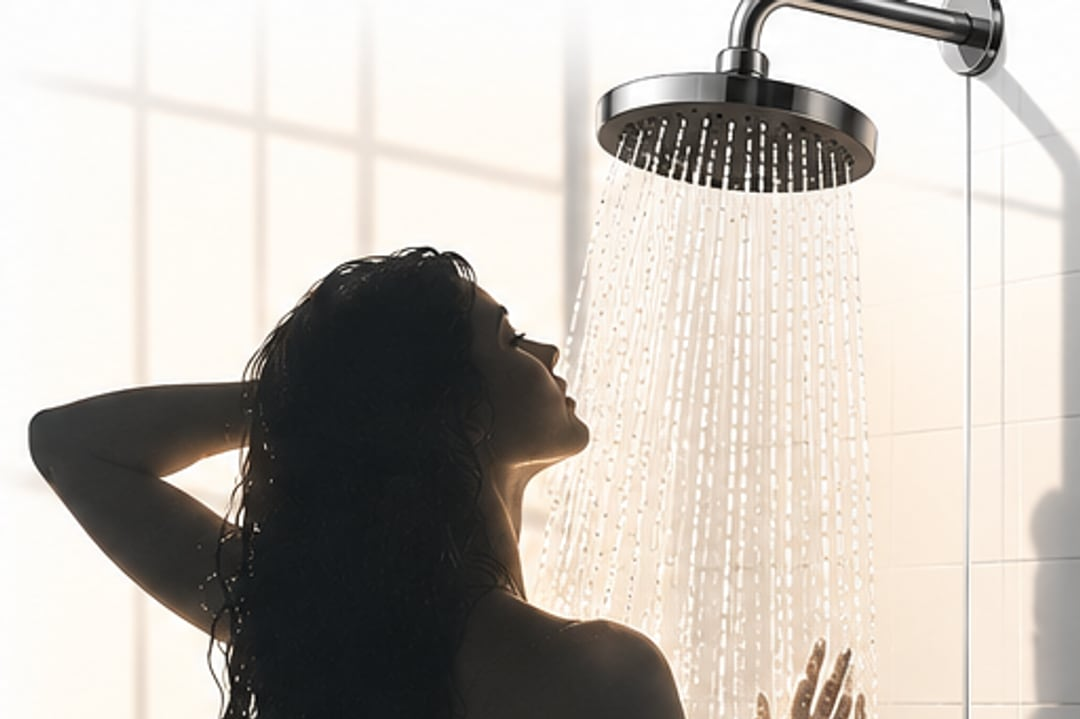
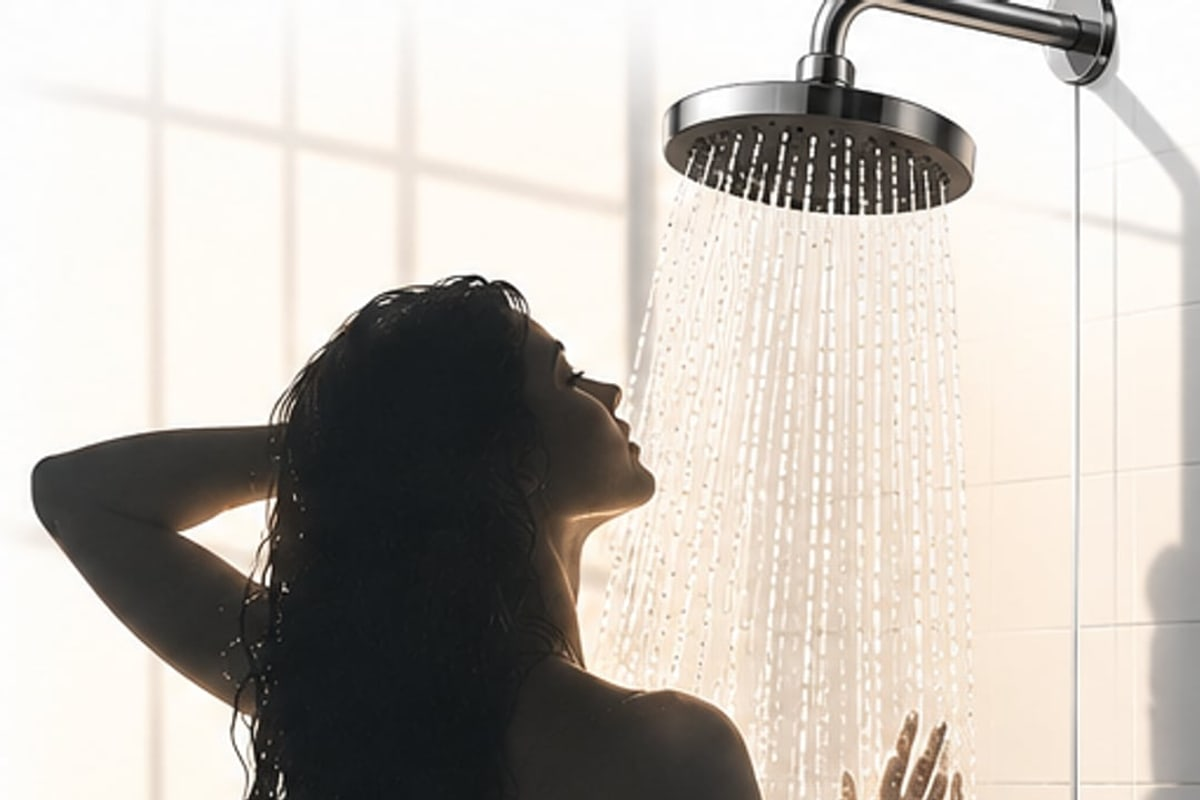
GeyserReplacement V6

diff --git a/design-export/website/GeyserReplacementsPage.jsx b/design-export/website/GeyserReplacementsPage.jsx
@@ -38,108 +38,6 @@ const { Button, Icon } = window.HomeAssistDesignSystem_cf0a2b;
 
 const GR_STORAGE_KEY = 'ha-geyser-config-v1';
 
-/* The three hero slides.
-
-   These were originally one wide graphic with its headings, size chips and kPa
-   values set as pixels inside the image — which meant none of it reflowed, none
-   of it was readable on a phone and none of it was indexable. Each slide is now
-   cropped to the subject alone, at a consistent 3:2, and every word that used
-   to be baked into the artwork is real HTML underneath it.
-
-   Slide two is composed rather than cropped: the control valve render on the
-   brand's grey, because cropping the original panel to 3:2 clipped the pressure
-   list in half. */
-const GR_SLIDES = [
-  {
-    image: '/assets/illustrations/geyser-hero-1-size.jpg',
-    label: 'Capacity',
-    title: 'The right size, for the number of people who shower',
-    body: 'Roughly 35 to 50 litres of hot water per person, and around 70% of South African homes run a 150 litre cylinder. Step 3 asks how many people shower, which is the same question the useful way round.',
-    alt: 'An electric hot water cylinder on mounting feet, showing the element cover plate, thermostat access and the energy rating label.'
-  },
-  {
-    image: '/assets/illustrations/geyser-hero-2-pressure.jpg',
-    label: 'Pressure',
-    title: 'A control valve matched to the cylinder, not to the van',
-    body: '100 to 200 kPa gives weak flow and cold showers. 400 to 600 kPa is the working range. Above 600 kPa shortens the life of the tank. This one part decides how the whole installation behaves.',
-    alt: 'A brass geyser control valve assembly with an isolating lever, a pressure control cartridge and compression fittings.'
-  },
-  {
-    image: '/assets/illustrations/geyser-hero-3-shower.jpg',
-    label: 'The result',
-    title: 'Strong, consistent flow — and a certificate to prove it',
-    body: 'A cylinder sized to the household, a valve matched to the cylinder, and a certificate of compliance saying so. Which is also the document your insurer asks for.',
-    alt: 'A rain shower head running at strong, even pressure in a sunlit bathroom.'
-  }
-];
-
-/* Rotating carousel. Auto-advances, and stops on hover, on keyboard focus and
-   for anyone who has asked their system to reduce motion — an image that keeps
-   moving under a reader is worse than one that never moved. Index starts at 0
-   on the server and on first paint, so the prerendered HTML and the hydrated
-   page agree. */
-function GrCarousel() {
-  const [i, setI] = React.useState(0);
-  const [paused, setPaused] = React.useState(false);
-  const count = GR_SLIDES.length;
-
-  React.useEffect(function () {
-    if (paused) return;
-    if (typeof window !== 'undefined' && window.matchMedia && window.matchMedia('(prefers-reduced-motion: reduce)').matches) return;
-    const t = setTimeout(function () { setI(function (v) { return (v + 1) % count; }); }, 5200);
-    return function () { clearTimeout(t); };
-  }, [i, paused, count]);
-
-  const go = function (next) { setI(((next % count) + count) % count); };
-  const slide = GR_SLIDES[i];
-
-  const arrow = {
-    cursor: 'pointer', background: '#fff', border: '1px solid var(--web-grey-300)', borderRadius: 4,
-    width: 42, height: 42, minHeight: 'var(--web-tap-min)', flex: '0 0 auto',
-    display: 'flex', alignItems: 'center', justifyContent: 'center'
-  };
-
-  return <div role="group" aria-roledescription="carousel" aria-label="Geyser sizing, pressure and the result"
-    onFocus={function () { setPaused(true); }} onBlur={function () { setPaused(false); }}
-    style={{ background: '#fff', border: '1px solid rgba(255,255,255,.22)', borderRadius: 4, overflow: 'hidden' }}>
-
-    {/* 3 / 2 on every slide, so the card never changes height as it rotates. */}
-    <div style={{ position: 'relative', width: '100%', aspectRatio: '3 / 2', background: 'var(--web-grey-050)' }}>
-      <img src={slide.image} alt={slide.alt}
-        style={{ position: 'absolute', inset: 0, width: '100%', height: '100%', objectFit: 'cover', display: 'block' }} />
-      <div style={{ position: 'absolute', left: 12, top: 12, ...LABEL, fontSize: 10, color: '#fff', background: 'rgba(11,29,58,.78)', padding: '4px 8px', borderRadius: 2 }}>
-        {String(i + 1).padStart(2, '0')} &middot; {slide.label}
-      </div>
-    </div>
-
-    <div style={{ padding: '20px 22px 18px' }}>
-      {/* A caption, not a section heading — it changes as the carousel turns,
-          and a heading that rewrites itself makes a mess of the document
-          outline a screen reader reads. */}
-      <div style={{ ...H3, fontSize: 17, margin: '0 0 6px' }}>{slide.title}</div>
-      <p aria-live="polite" style={{ ...BODY, fontSize: 14, margin: 0, minHeight: '4.2em' }}>{slide.body}</p>
-
-      <div style={{ display: 'flex', gap: 8, alignItems: 'center', marginTop: 14, flexWrap: 'wrap' }}>
-        <button type="button" onClick={function () { go(i - 1); }} aria-label="Previous slide" style={arrow}>
-          <Icon name="chevron-left" size={17} color="var(--web-navy)" />
-        </button>
-        <button type="button" onClick={function () { go(i + 1); }} aria-label="Next slide" style={arrow}>
-          <Icon name="chevron-right" size={17} color="var(--web-navy)" />
-        </button>
-        <div style={{ display: 'flex', gap: 6, marginLeft: 6 }}>
-          {GR_SLIDES.map(function (sl, k) {
-            return <button key={sl.label} type="button" onClick={function () { go(k); }}
-              aria-label={'Show slide ' + (k + 1) + ': ' + sl.label} aria-current={k === i}
-              style={{ cursor: 'pointer', width: 28, height: 44, minHeight: 'var(--web-tap-min)', padding: 0, background: 'none', border: 0, display: 'flex', alignItems: 'center' }}>
-              <span style={{ display: 'block', width: '100%', height: 3, background: k === i ? 'var(--web-blue)' : 'var(--web-grey-300)' }}></span>
-            </button>;
-          })}
-        </div>
-      </div>
-    </div>
-  </div>;
-}
-
 const GR_SAFETY = [
   ['file-check', 'Certificate of compliance',
    'Issued by a registered plumber on completion and logged. Your insurer can ask for it, and without one an installation is not finished.'],
@@ -446,7 +344,11 @@ function GeyserReplacementsPage({ go }) {
           </div>
           <p style={{ ...SMALL, color: 'rgba(255,255,255,.75)', marginTop: 14 }}>Not replacing yet? <a href="#warranty" style={{ color: '#fff', fontWeight: 600 }}>Check whether your geyser is still under warranty</a> — free, and it may mean you do not need to buy anything.</p>
         </div>
-        <GrCarousel />
+        <div style={{ border: '1px solid rgba(255,255,255,.22)', borderRadius: 4, overflow: 'hidden', lineHeight: 0 }}>
+          <img src="/assets/illustrations/geyser-hero-3-shower.jpg"
+            alt="A rain shower head running at strong, even pressure in a sunlit bathroom"
+            style={{ width: '100%', height: 'auto', display: 'block' }} />
+        </div>
       </div>
     </section>
 
@@ -469,8 +371,9 @@ function GeyserReplacementsPage({ go }) {
         <div style={{ ...CARD, display: 'flex', gap: 20, alignItems: 'center' }}>
           <img src="/assets/illustrations/geyser-control-valve.png" alt="A brass geyser control valve assembly with an isolating lever, a pressure control cartridge and compression fittings" style={{ width: 120, height: 'auto', display: 'block', flex: '0 0 auto' }} />
           <div>
-            <div style={{ ...LABEL, marginBottom: 8 }}>The control valve</div>
-            <p style={{ ...BODY, margin: 0, fontSize: 14 }}>The pressure control valve is matched to the rating of the cylinder that was fitted. Fit a 400 kPa valve to a 600 kPa cylinder and you get weak flow; fit it the other way round and you shorten the life of the tank. It is a small part and it decides how the whole installation behaves.</p>
+            <div style={{ ...LABEL, marginBottom: 8 }}>A dripping valve is not always a dead geyser</div>
+            <p style={{ ...BODY, margin: '0 0 10px', fontSize: 14 }}>Water sediment collects in the strainer on the pressure control valve, and a blocked strainer makes the valve drip more than it should. That looks like a failing geyser and it often is not one — so a dripping overflow is worth having looked at before anybody quotes you for a new cylinder.</p>
+            <p style={{ ...BODY, margin: 0, fontSize: 14 }}>When the cylinder genuinely is being replaced, the valve gets replaced with it. That is good practice rather than an upsell: <strong>the valve pressure may never exceed the cylinder pressure</strong>, so a valve carried over from the old installation can be wrong for the new one.</p>
           </div>
         </div>
         <div style={{ ...CARD, padding: 0, overflow: 'hidden', display: 'flex', flexDirection: 'column' }}>
